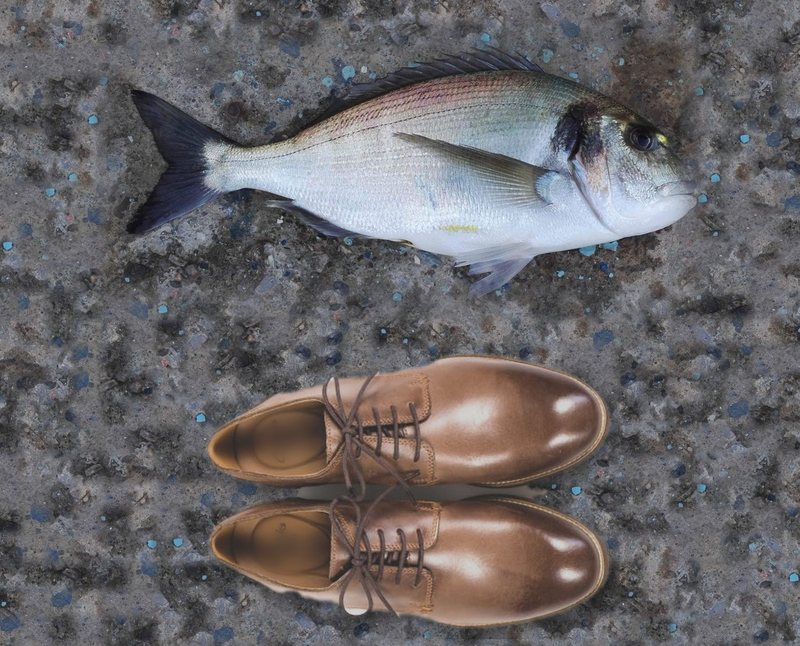
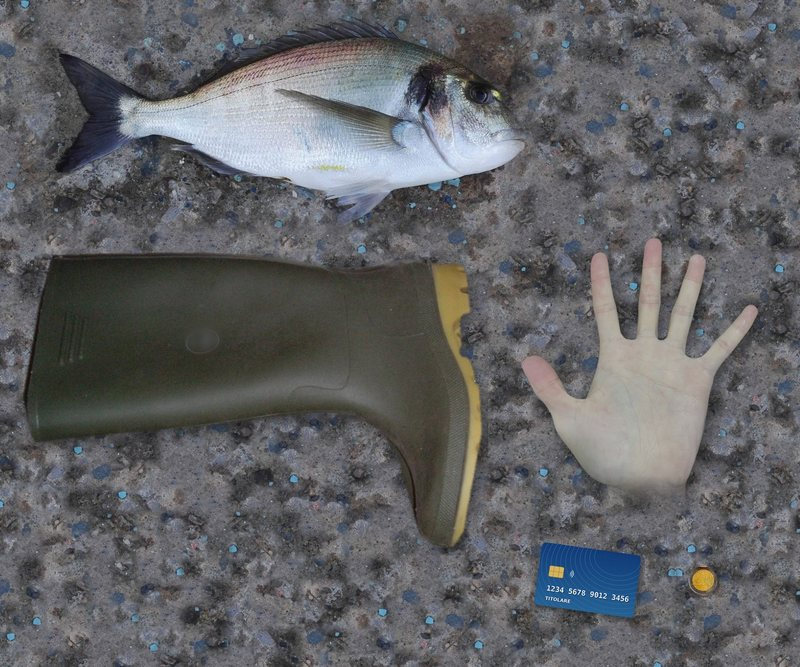
Anteprima Riconosci: orata con stivale, palmo, bancomat e moneta da 2 euro come riferimenti
Claude-Session: https://claude.ai/code/session_01XaR5behUVm3B5ZAVVV48nC

diff --git a/pesca/index.html b/pesca/index.html
@@ -608,20 +608,22 @@ const PREMIUM_TABS={pesce:['Riconosci e misura','Il riconoscimento della specie 
   compare:['Dove pescare','La classifica dei tuoi spot per indice di pesca è riservata agli utenti Premium.'],ai:['Assistente','I consigli su misura e le specie di stagione sono riservati agli utenti Premium.'],guide:['Guida','La guida a nodi, montature ed esche è riservata agli utenti Premium.']};
 const lockedTab=t=>!!PREMIUM_TABS[t]&&!isPremium();
 // anteprima sfocata di Riconosci: un pesce disegnato, riconosciuto e misurato
-// fotomontaggio da foto reali: orata di Alidz31 su iNaturalist (CC BY 4.0) e scarpe di Freestocks.org (CC0)
-// linea azzurra: lunghezza dell'orata dal muso alla coda; linea arancione: scarpa usata come riferimento, dal tallone alla punta
-const FISH_PREVIEW=`<div style="position:relative"><img src="img/orata-preview.jpg" alt="Orata accanto a una scarpa" style="display:block;width:100%;border-radius:16px">
-  <svg viewBox="0 0 800 646" style="position:absolute;inset:0;width:100%;height:100%">
-  <line x1="698" y1="198" x2="128" y2="161" stroke="rgba(0,0,0,.6)" stroke-width="11" stroke-linecap="round"/><line x1="698" y1="198" x2="128" y2="161" stroke="#2fe0cf" stroke-width="6" stroke-linecap="round"/>
-  <circle cx="698" cy="198" r="10" fill="#2fe0cf" stroke="#fff" stroke-width="3"/><circle cx="128" cy="161" r="10" fill="#2fe0cf" stroke="#fff" stroke-width="3"/>
-  <line x1="211" y1="552" x2="609" y2="552" stroke="rgba(0,0,0,.6)" stroke-width="11" stroke-linecap="round"/><line x1="211" y1="552" x2="609" y2="552" stroke="#ffb547" stroke-width="6" stroke-linecap="round"/>
-  <circle cx="211" cy="552" r="10" fill="#ffb547" stroke="#fff" stroke-width="3"/><circle cx="609" cy="552" r="10" fill="#ffb547" stroke="#fff" stroke-width="3"/></svg></div>`;
+// fotomontaggio da foto reali: orata di Alidz31 su iNaturalist (CC BY 4.0), stivale di Steinsky su Wikimedia Commons (CC BY-SA 3.0),
+// mano di Jiajitan su Wikimedia Commons (CC0), moneta di Michal Jarmoluk (CC0); il bancomat è disegnato, senza marchi.
+// linea azzurra: lunghezza dell'orata; linee arancioni: i riferimenti (altezza dello stivale, palmo, lato lungo del bancomat, diametro della moneta)
+const FISH_PREVIEW=`<div style="position:relative"><img src="img/orata-preview.jpg" alt="Orata con stivale, mano, bancomat e moneta" style="display:block;width:100%;border-radius:16px">
+  <svg viewBox="0 0 800 667" style="position:absolute;inset:0;width:100%;height:100%">
+  <line x1="525" y1="145" x2="56" y2="113" stroke="rgba(0,0,0,.6)" stroke-width="11" stroke-linecap="round"/><line x1="525" y1="145" x2="56" y2="113" stroke="#2fe0cf" stroke-width="6" stroke-linecap="round"/><circle cx="525" cy="145" r="10" fill="#2fe0cf" stroke="#fff" stroke-width="3"/><circle cx="56" cy="113" r="10" fill="#2fe0cf" stroke="#fff" stroke-width="3"/>
+  <line x1="25" y1="325" x2="478" y2="325" stroke="rgba(0,0,0,.6)" stroke-width="11" stroke-linecap="round"/><line x1="25" y1="325" x2="478" y2="325" stroke="#ffb547" stroke-width="6" stroke-linecap="round"/><circle cx="25" cy="325" r="10" fill="#ffb547" stroke="#fff" stroke-width="3"/><circle cx="478" cy="325" r="10" fill="#ffb547" stroke="#fff" stroke-width="3"/>
+  <line x1="523" y1="363" x2="752" y2="310" stroke="rgba(0,0,0,.6)" stroke-width="11" stroke-linecap="round"/><line x1="523" y1="363" x2="752" y2="310" stroke="#ffb547" stroke-width="6" stroke-linecap="round"/><circle cx="523" cy="363" r="10" fill="#ffb547" stroke="#fff" stroke-width="3"/><circle cx="752" cy="310" r="10" fill="#ffb547" stroke="#fff" stroke-width="3"/>
+  <line x1="535" y1="595" x2="634" y2="609" stroke="rgba(0,0,0,.6)" stroke-width="9" stroke-linecap="round"/><line x1="535" y1="595" x2="634" y2="609" stroke="#ffb547" stroke-width="4" stroke-linecap="round"/><circle cx="535" cy="595" r="6" fill="#ffb547" stroke="#fff" stroke-width="3"/><circle cx="634" cy="609" r="6" fill="#ffb547" stroke="#fff" stroke-width="3"/>
+  <line x1="688" y1="580" x2="718" y2="580" stroke="rgba(0,0,0,.6)" stroke-width="8" stroke-linecap="round"/><line x1="688" y1="580" x2="718" y2="580" stroke="#ffb547" stroke-width="3" stroke-linecap="round"/><circle cx="688" cy="580" r="5" fill="#ffb547" stroke="#fff" stroke-width="3"/><circle cx="718" cy="580" r="5" fill="#ffb547" stroke="#fff" stroke-width="3"/></svg></div>`;
 function premiumPreview(){return `<div class="pvwrap"><div class="pvblur">
   <div class="cphoto big" style="margin-bottom:10px">${FISH_PREVIEW}</div>
   <div class="aibox ok"><div style="flex:1"><div class="small mut" style="text-transform:uppercase;letter-spacing:1px;font-weight:700">✨ Riconosciuto</div>
     <div style="font-size:19px;font-weight:800;margin-top:2px">Orata <span class="pill" style="background:#5ee08a22;color:var(--ok)">94%</span></div><div class="small mut"><i>Sparus aurata</i></div>
-    <div class="aigrid" style="margin-top:10px"><div><b>41 cm</b><span>lunghezza</span></div><div><b>1,1 kg</b><span>peso stimato</span></div><div><b style="font-size:12px">Scarpa n. 43</b><span>riferimento trovato</span></div></div></div></div>
-  </div><div class="small mut" style="margin-top:6px;font-size:11px">Fotomontaggio da foto di Alidz31 (iNaturalist, CC BY) e Freestocks.org (CC0)</div></div>`;}
+    <div class="aigrid" style="margin-top:10px"><div><b>40 cm</b><span>lunghezza</span></div><div><b>1,0 kg</b><span>peso stimato</span></div><div><b style="font-size:12px">4 riferimenti</b><span>stivale, palmo, bancomat, 2 €</span></div></div></div></div>
+  </div><div class="small mut" style="margin-top:6px;font-size:11px">Fotomontaggio da foto di Alidz31 (iNaturalist, CC BY), Steinsky (Wikimedia Commons, CC BY-SA), Jiajitan e Michal Jarmoluk (CC0)</div></div>`;}
 function premiumPage(v,t){const [title,what]=PREMIUM_TABS[t];
   v.innerHTML=subHead(title,'Funzione Premium',t==='pesce'||t==='compare'?'home':'altro')+(t==='pesce'?`<div class="pvhost">${premiumPreview()}</div>`:'')+`<div class="card" style="text-align:center;padding:28px 18px">
     <div style="font-size:52px">⭐</div><h2 style="margin:6px 0">Funzione Premium</h2>

diff --git a/pesca/sw.js b/pesca/sw.js
@@ -1,5 +1,5 @@
 // Service worker di Lenza: app disponibile offline; i dati meteo passano sempre dalla rete.
-const CACHE='lenza-v23';
+const CACHE='lenza-v24';
 const SHELL=['./','./index.html','./manifest.webmanifest','./icon-192.png','./icon-512.png',
   'https://cdnjs.cloudflare.com/ajax/libs/leaflet/1.9.4/leaflet.min.css',
   'https://cdnjs.cloudflare.com/ajax/libs/leaflet/1.9.4/leaflet.min.js'];
